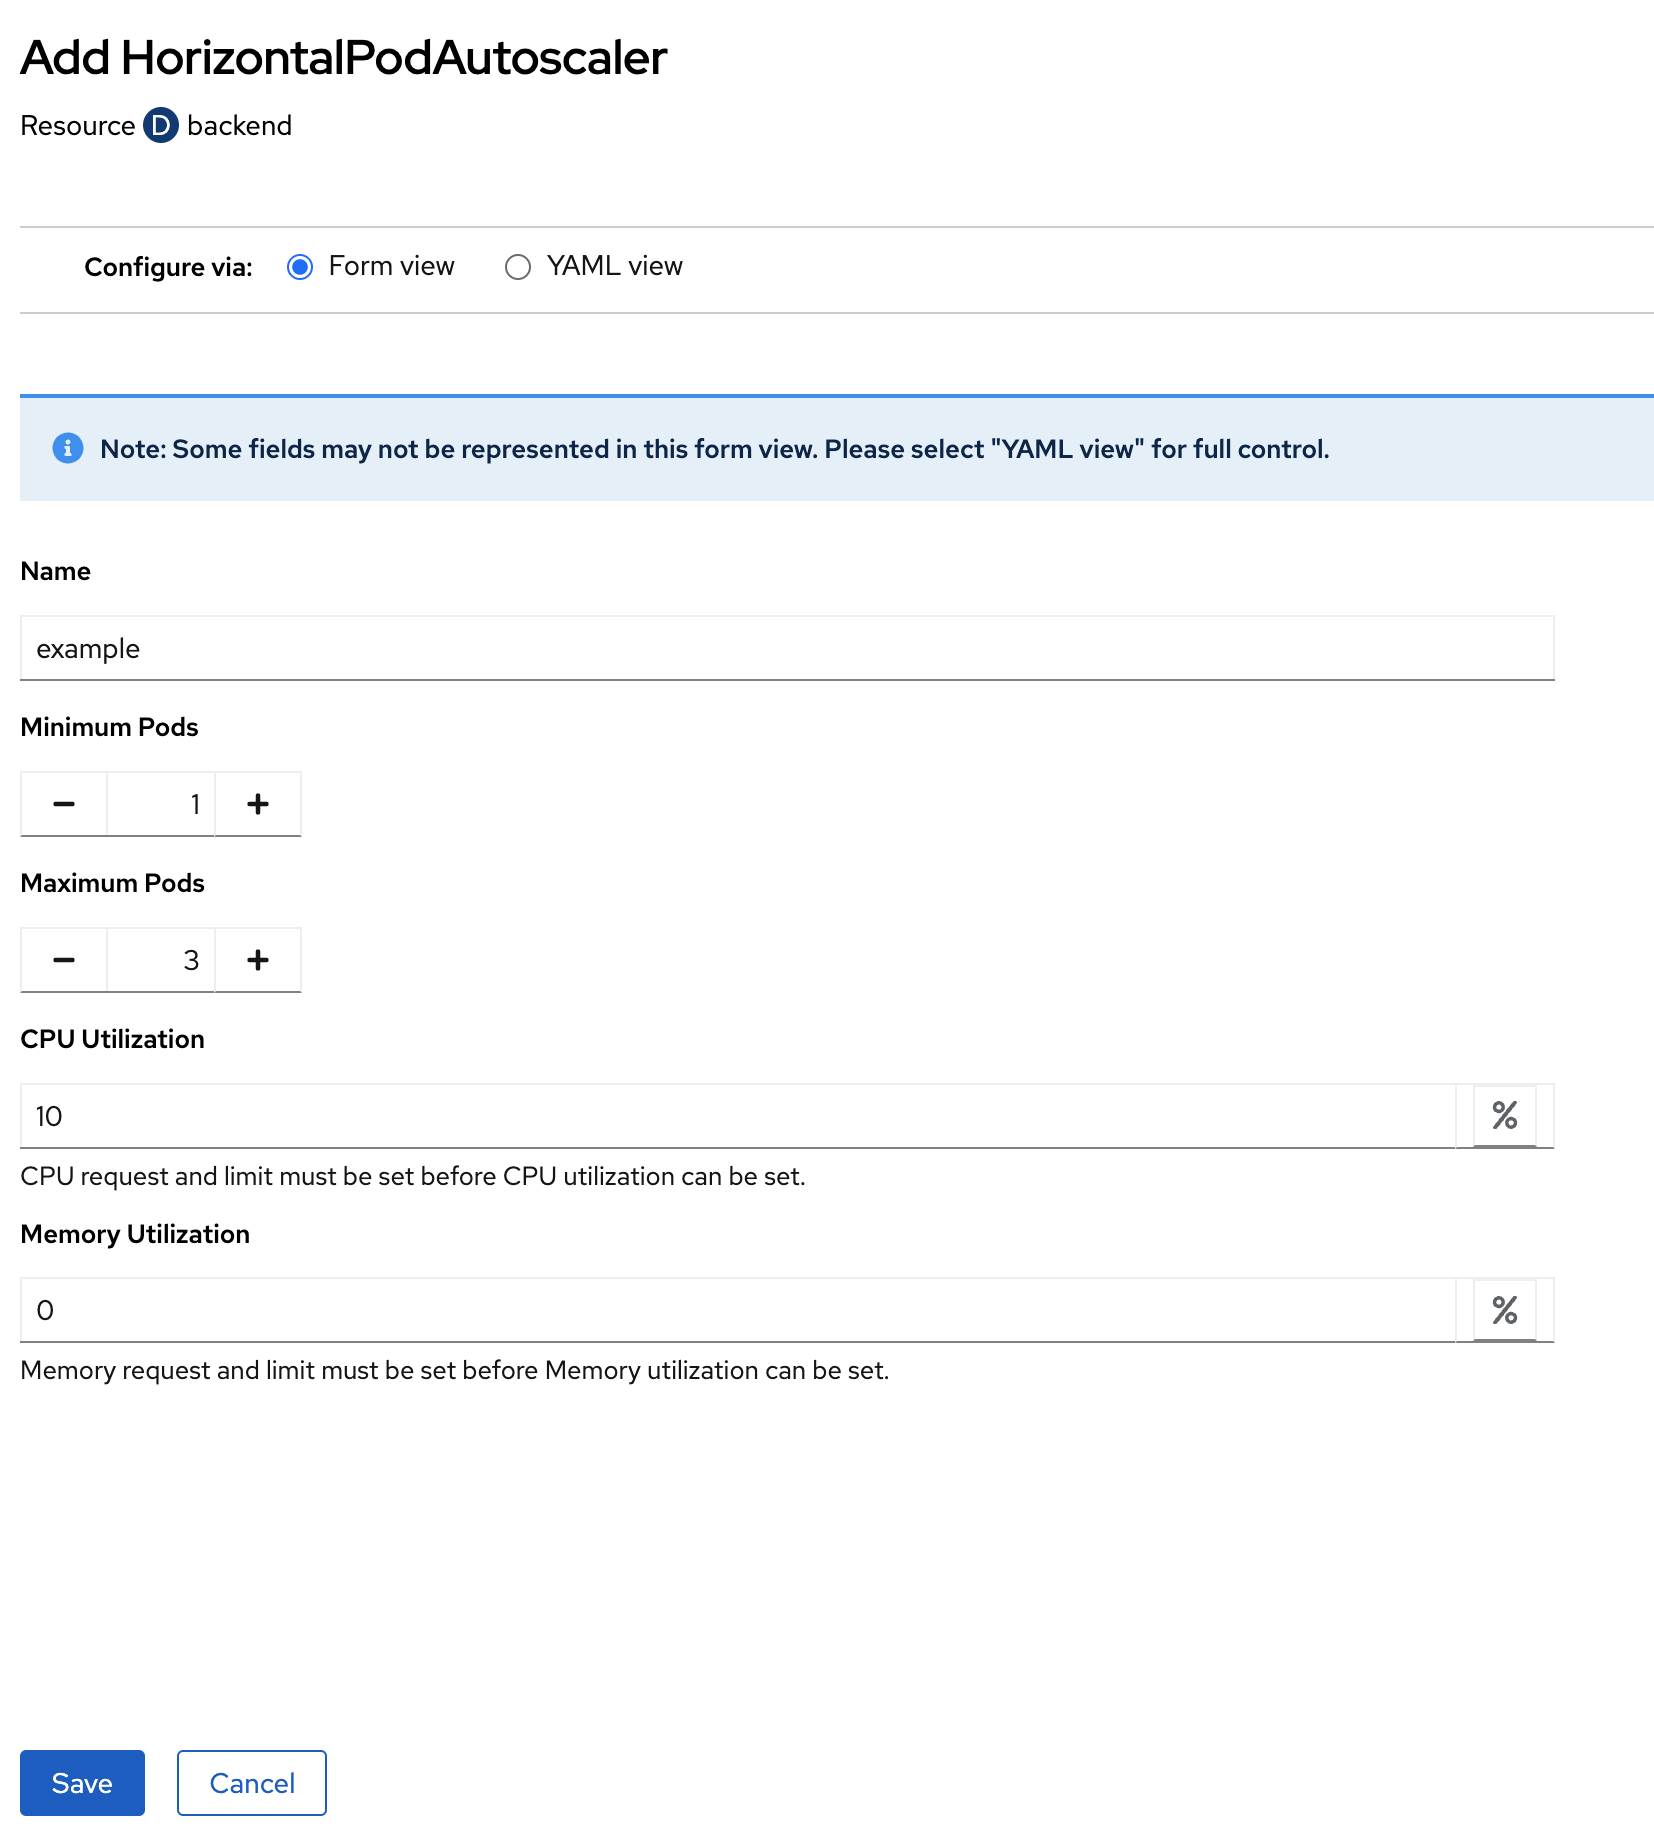
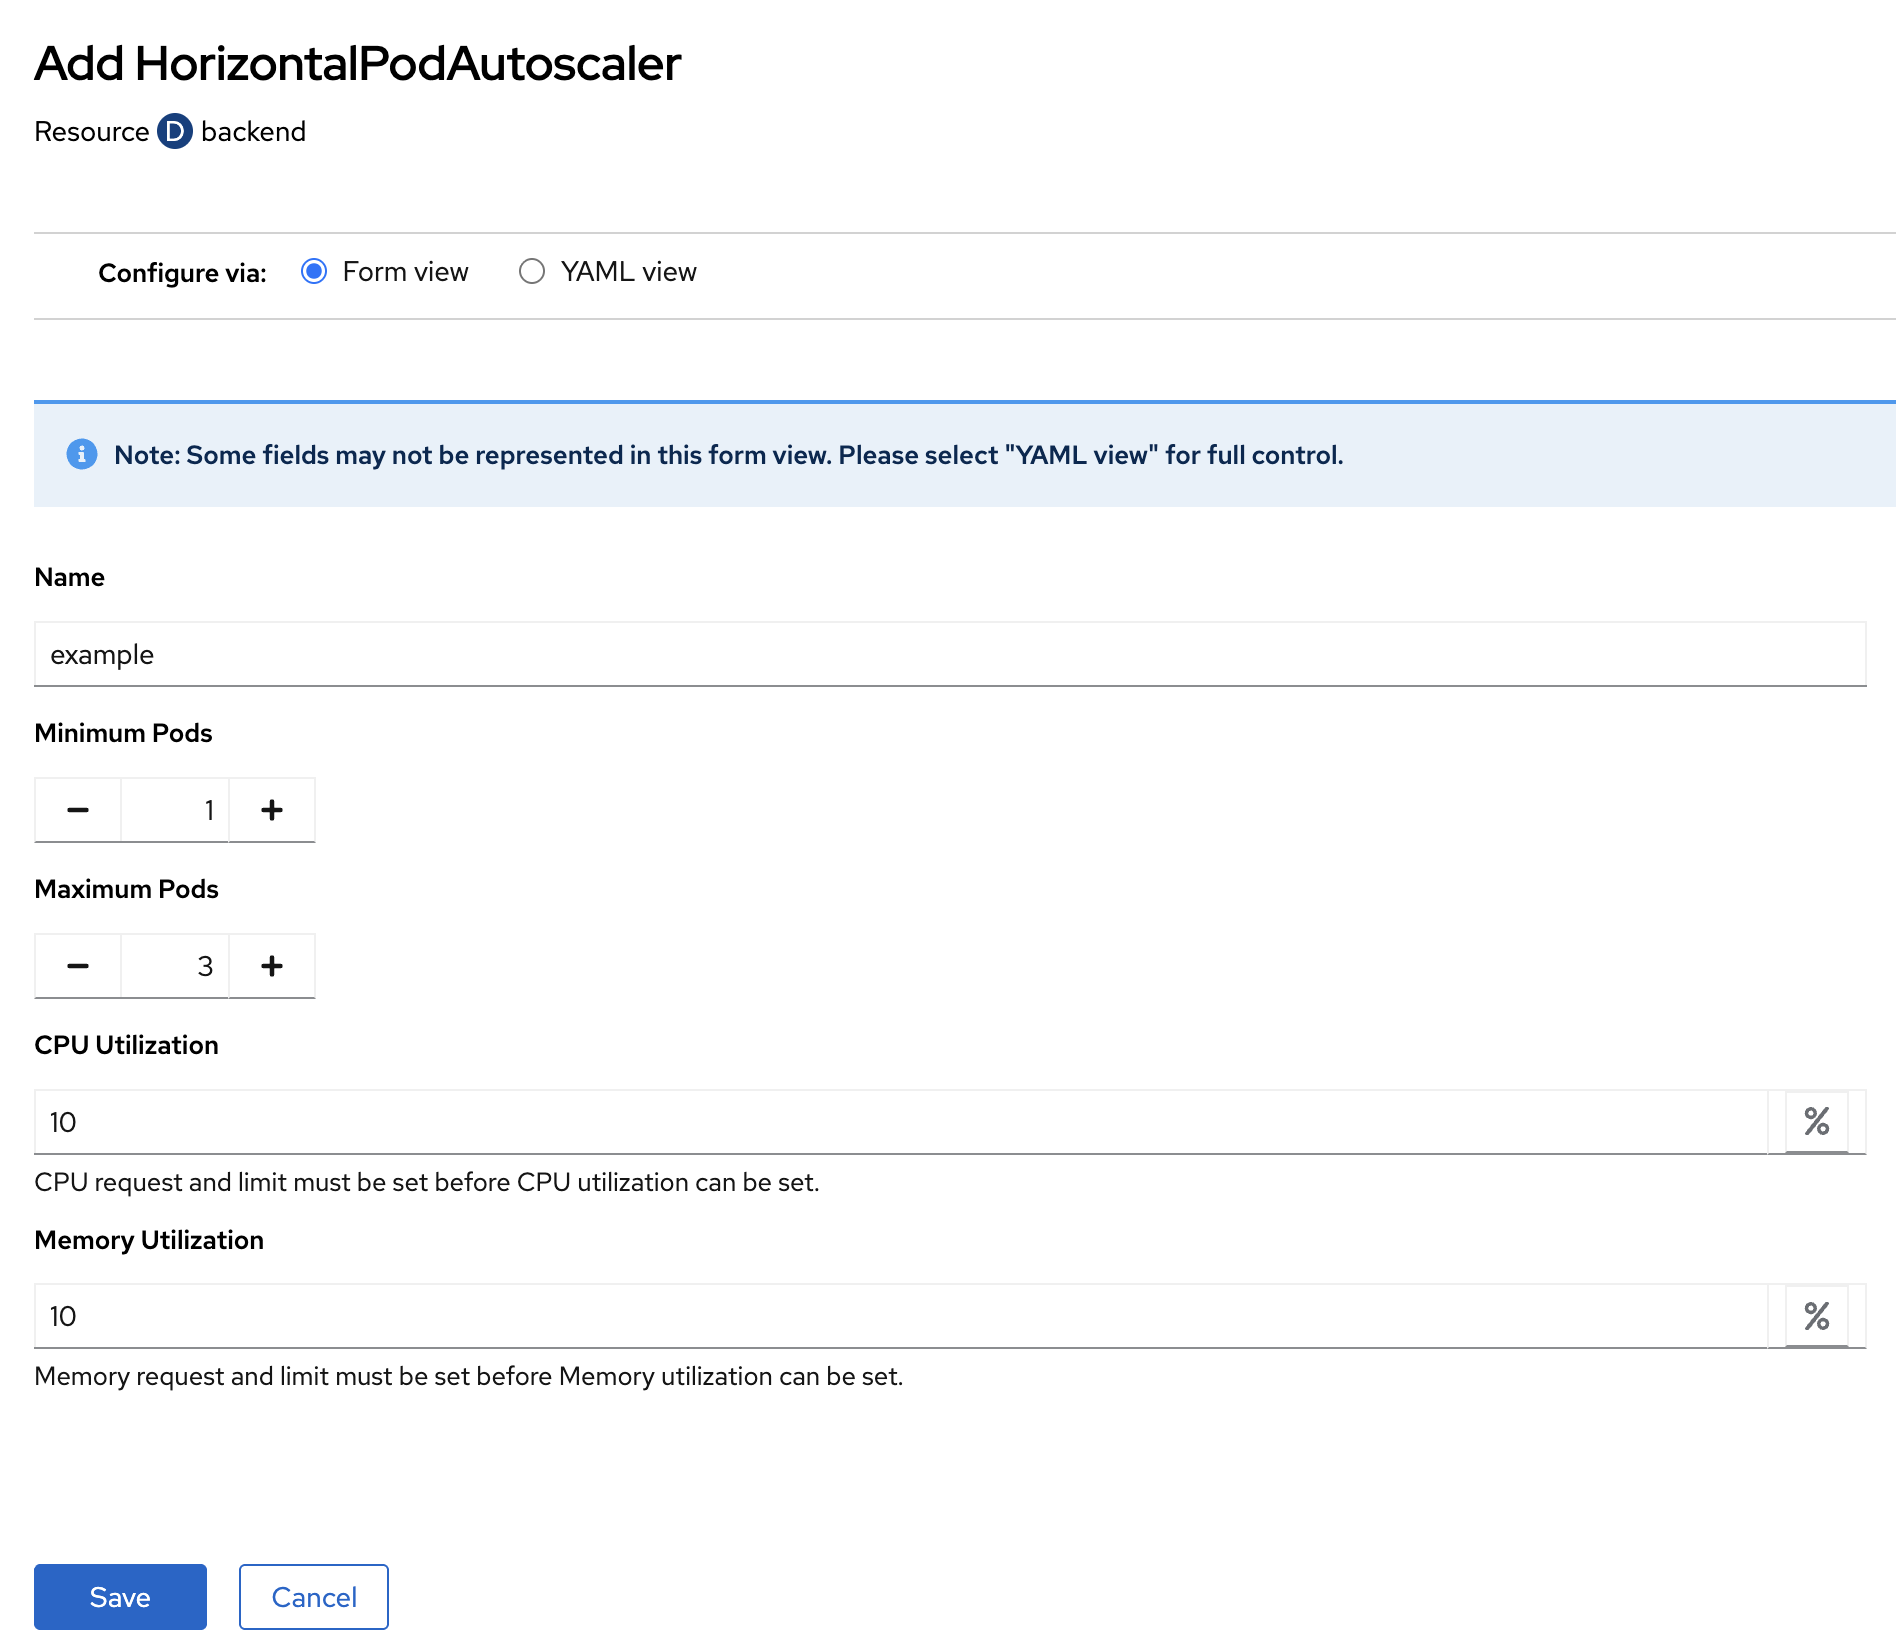
update

diff --git a/scale.md b/scale.md
@@ -1,12 +1,12 @@
 # Quality of Service (from request/limit) and Pod Auto Scaling
 <!-- TOC -->
 
-- [Quality of Service (from request/limit) and Pod Auto Scaling](#quality-of-service-from-requestlimit-and-pod-auto-scaling)
-  - [Check Quality of Service](#check-quality-of-service)
-  - [Use Vertical Pod Autoscaler for sizing](#use-vertical-pod-autoscaler-for-sizing)
-  - [Manual Scale Application](#manual-scale-application)
-  - [Auto Scale Application](#auto-scale-application)
-  - [Back to Table of Content](#back-to-table-of-content)
+- [Quality of Service from request/limit and Pod Auto Scaling](#quality-of-service-from-requestlimit-and-pod-auto-scaling)
+    - [Check Quality of Service](#check-quality-of-service)
+    - [Use Vertical Pod Autoscaler for sizing](#use-vertical-pod-autoscaler-for-sizing)
+    - [Manual Scale Application](#manual-scale-application)
+    - [Auto Scale Application](#auto-scale-application)
+    - [Back to Table of Content](#back-to-table-of-content)
 
 <!-- /TOC -->
 <!-- /TOC -->
@@ -73,7 +73,7 @@
 - after complete, run vpa to get recommendation  `change namespace/project before run command`
 
   ```ssh
-  oc get vpa vpa-recommender -n user1 --output yaml
+  oc get vpa vpa-recommender -n userX --output yaml
   ```
 
   example output
@@ -148,6 +148,7 @@
   - Minimum Pods: `1`
   - Maximum Pods: `3`
   - CPU Utilization: `10%`
+  - Memory Utilization: `10%`
   
   ![](images/scale_13.png) 
 
